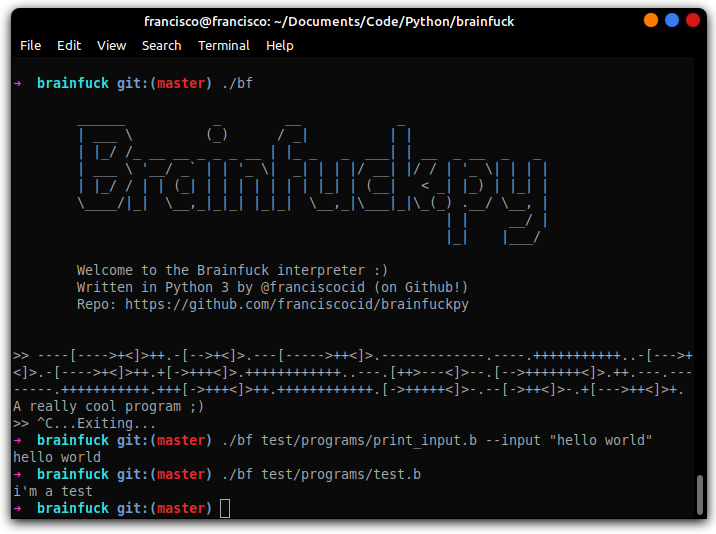
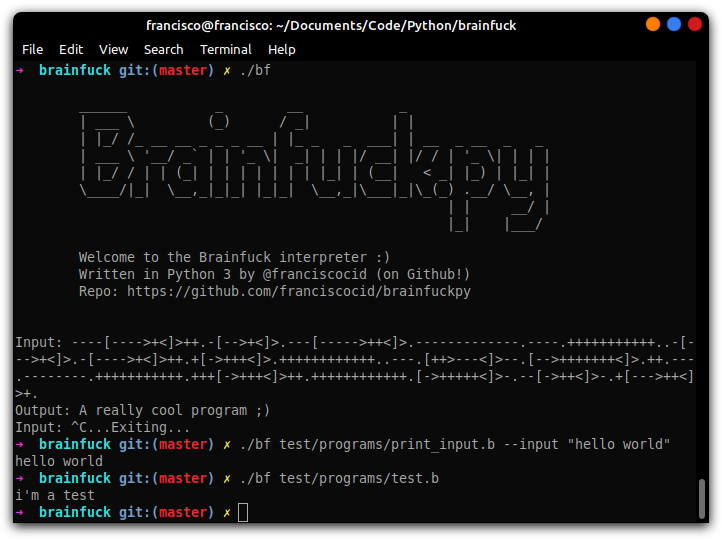
Better input message

Changed region(s): [[0.0, 0.0, 1.0, 0.9888], [0.0922, 0.4494, 0.676, 0.5993]]

diff --git a/repl/__init__.py b/repl/__init__.py
@@ -18,10 +18,10 @@ def repl(input_: str = ''):
     """)
     while True:
         try:
-            repl_code = input('>> ')
+            repl_code = input('Input: ')
             brain = Brainfuck()
             result = brain.run(repl_code, input_)
-            print(result)
+            print('Output:', result)
         except (EOFError, KeyboardInterrupt):
             print("...Exiting...")
             exit(0)
